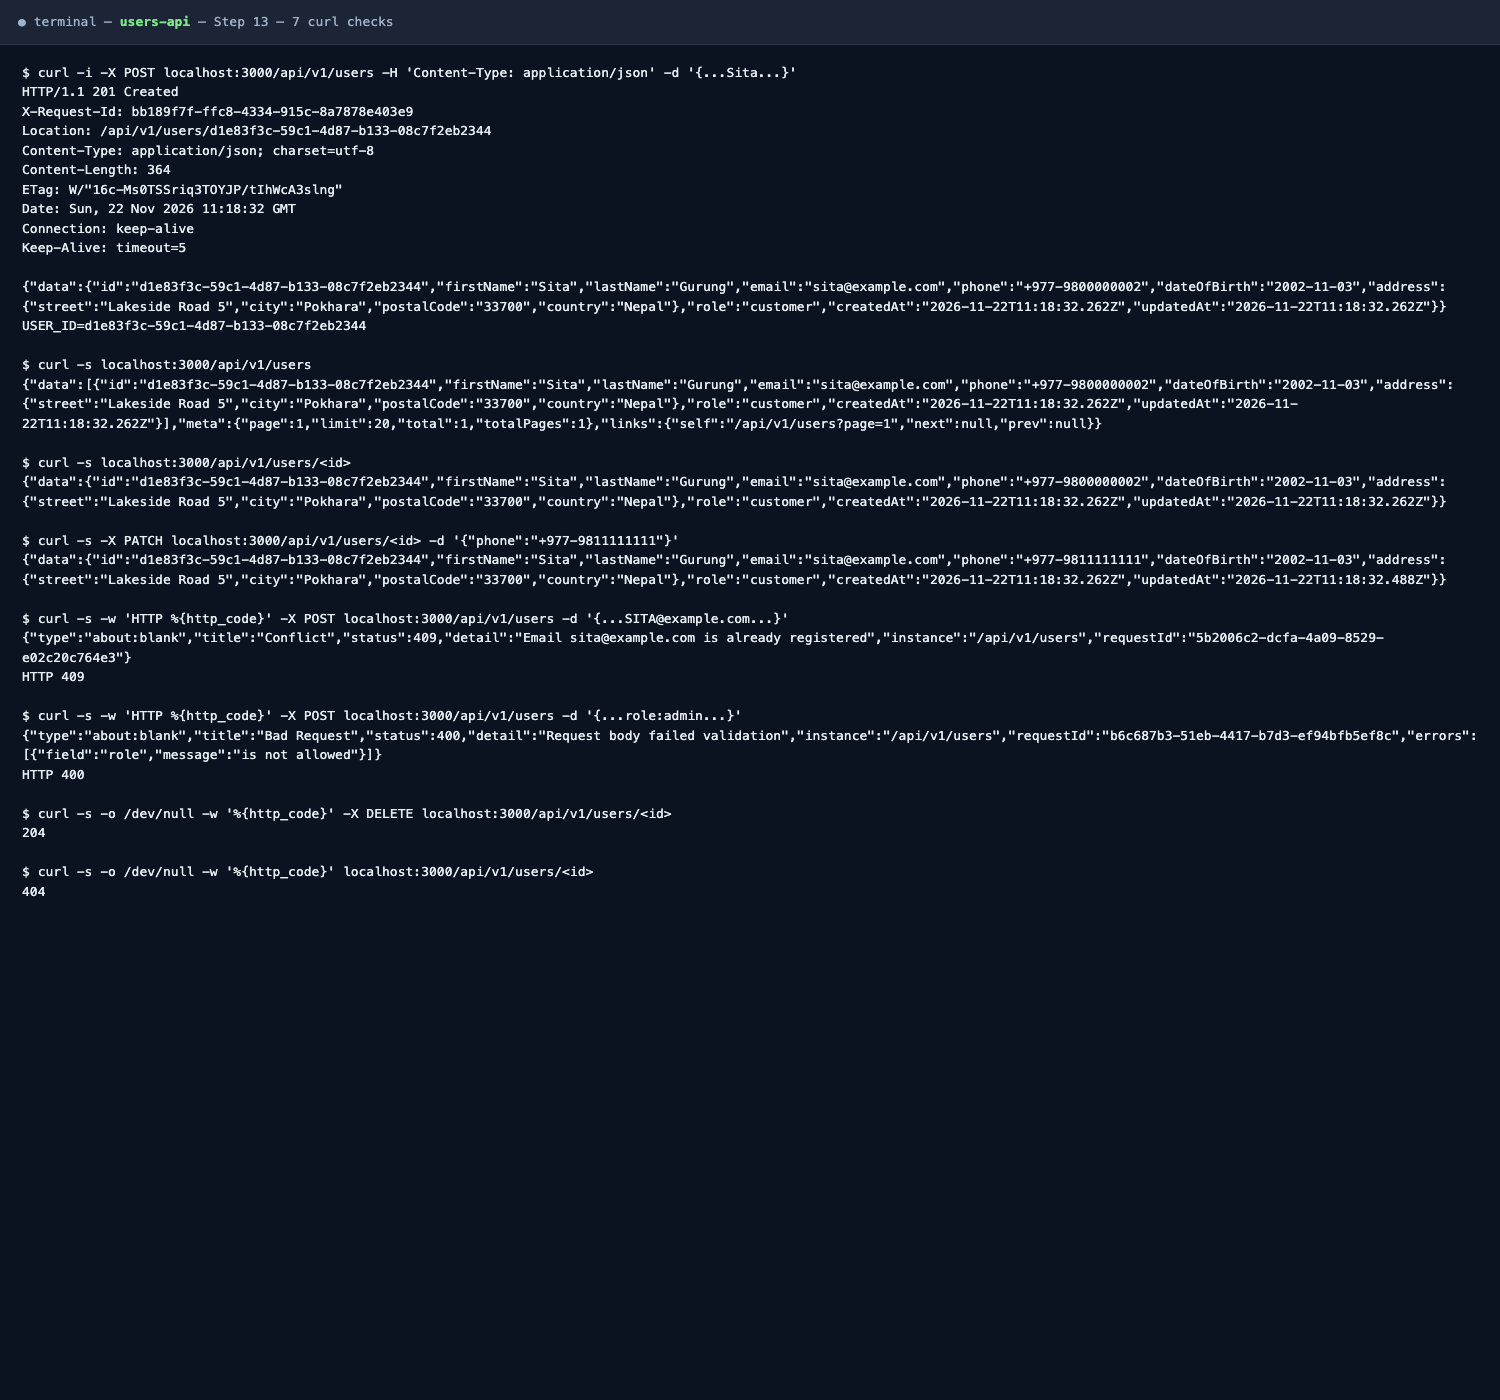
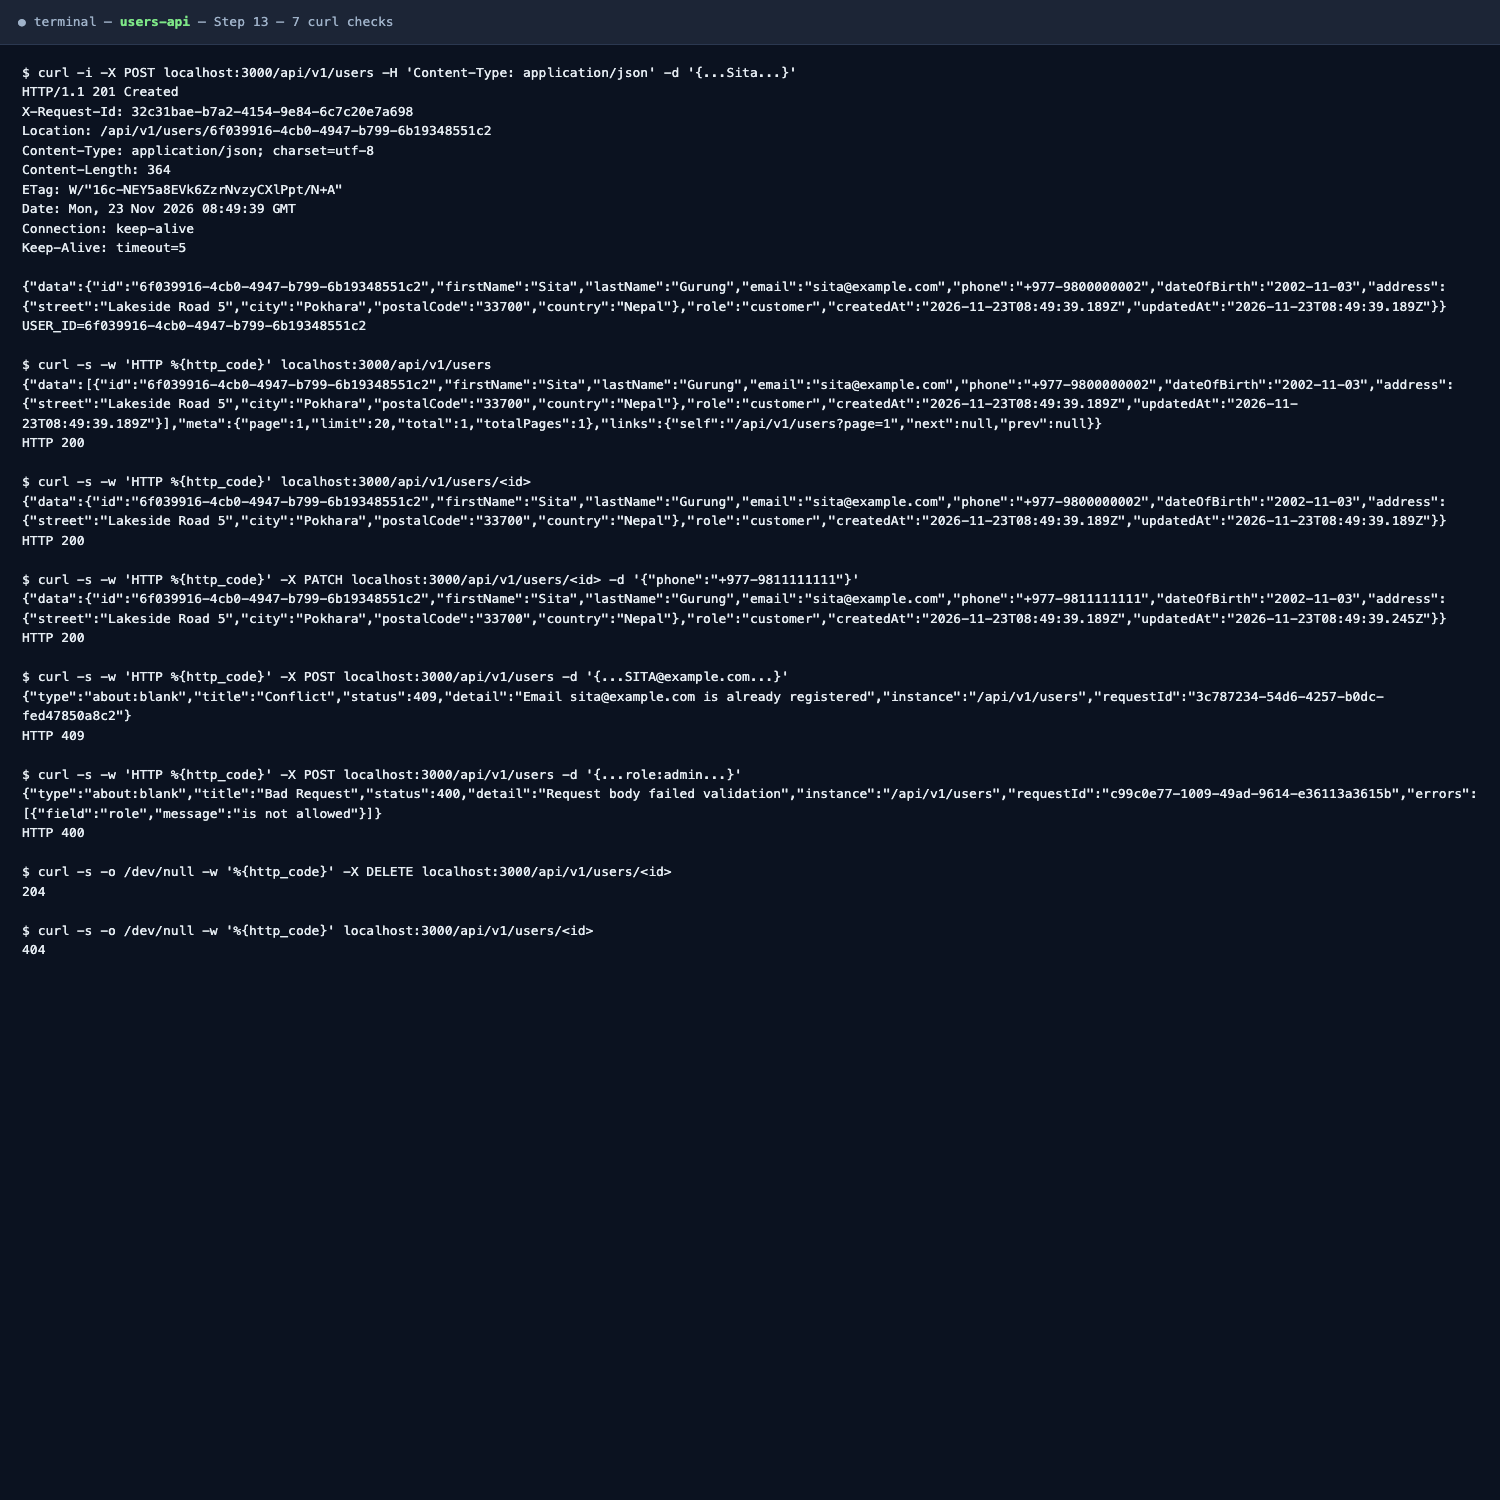
docs: show status codes for all 7 curl checks

diff --git a/evidence/curl-checks.html b/evidence/curl-checks.html
@@ -10,33 +10,36 @@
 <pre>
 $ curl -i -X POST localhost:3000/api/v1/users -H 'Content-Type: application/json' -d '{...Sita...}'
 HTTP/1.1 201 Created
-X-Request-Id: bb189f7f-ffc8-4334-915c-8a7878e403e9
-Location: /api/v1/users/d1e83f3c-59c1-4d87-b133-08c7f2eb2344
+X-Request-Id: 32c31bae-b7a2-4154-9e84-6c7c20e7a698
+Location: /api/v1/users/6f039916-4cb0-4947-b799-6b19348551c2
 Content-Type: application/json; charset=utf-8
 Content-Length: 364
-ETag: W/"16c-Ms0TSSriq3TOYJP/tIhWcA3slng"
-Date: Sun, 22 Nov 2026 11:18:32 GMT
+ETag: W/"16c-NEY5a8EVk6ZzrNvzyCXlPpt/N+A"
+Date: Mon, 23 Nov 2026 08:49:39 GMT
 Connection: keep-alive
 Keep-Alive: timeout=5
 
-{"data":{"id":"d1e83f3c-59c1-4d87-b133-08c7f2eb2344","firstName":"Sita","lastName":"Gurung","email":"sita@example.com","phone":"+977-9800000002","dateOfBirth":"2002-11-03","address":{"street":"Lakeside Road 5","city":"Pokhara","postalCode":"33700","country":"Nepal"},"role":"customer","createdAt":"2026-11-22T11:18:32.262Z","updatedAt":"2026-11-22T11:18:32.262Z"}}
-USER_ID=d1e83f3c-59c1-4d87-b133-08c7f2eb2344
+{"data":{"id":"6f039916-4cb0-4947-b799-6b19348551c2","firstName":"Sita","lastName":"Gurung","email":"sita@example.com","phone":"+977-9800000002","dateOfBirth":"2002-11-03","address":{"street":"Lakeside Road 5","city":"Pokhara","postalCode":"33700","country":"Nepal"},"role":"customer","createdAt":"2026-11-23T08:49:39.189Z","updatedAt":"2026-11-23T08:49:39.189Z"}}
+USER_ID=6f039916-4cb0-4947-b799-6b19348551c2
 
-$ curl -s localhost:3000/api/v1/users
-{"data":[{"id":"d1e83f3c-59c1-4d87-b133-08c7f2eb2344","firstName":"Sita","lastName":"Gurung","email":"sita@example.com","phone":"+977-9800000002","dateOfBirth":"2002-11-03","address":{"street":"Lakeside Road 5","city":"Pokhara","postalCode":"33700","country":"Nepal"},"role":"customer","createdAt":"2026-11-22T11:18:32.262Z","updatedAt":"2026-11-22T11:18:32.262Z"}],"meta":{"page":1,"limit":20,"total":1,"totalPages":1},"links":{"self":"/api/v1/users?page=1","next":null,"prev":null}}
+$ curl -s -w 'HTTP %{http_code}' localhost:3000/api/v1/users
+{"data":[{"id":"6f039916-4cb0-4947-b799-6b19348551c2","firstName":"Sita","lastName":"Gurung","email":"sita@example.com","phone":"+977-9800000002","dateOfBirth":"2002-11-03","address":{"street":"Lakeside Road 5","city":"Pokhara","postalCode":"33700","country":"Nepal"},"role":"customer","createdAt":"2026-11-23T08:49:39.189Z","updatedAt":"2026-11-23T08:49:39.189Z"}],"meta":{"page":1,"limit":20,"total":1,"totalPages":1},"links":{"self":"/api/v1/users?page=1","next":null,"prev":null}}
+HTTP 200
 
-$ curl -s localhost:3000/api/v1/users/&lt;id&gt;
-{"data":{"id":"d1e83f3c-59c1-4d87-b133-08c7f2eb2344","firstName":"Sita","lastName":"Gurung","email":"sita@example.com","phone":"+977-9800000002","dateOfBirth":"2002-11-03","address":{"street":"Lakeside Road 5","city":"Pokhara","postalCode":"33700","country":"Nepal"},"role":"customer","createdAt":"2026-11-22T11:18:32.262Z","updatedAt":"2026-11-22T11:18:32.262Z"}}
+$ curl -s -w 'HTTP %{http_code}' localhost:3000/api/v1/users/&lt;id&gt;
+{"data":{"id":"6f039916-4cb0-4947-b799-6b19348551c2","firstName":"Sita","lastName":"Gurung","email":"sita@example.com","phone":"+977-9800000002","dateOfBirth":"2002-11-03","address":{"street":"Lakeside Road 5","city":"Pokhara","postalCode":"33700","country":"Nepal"},"role":"customer","createdAt":"2026-11-23T08:49:39.189Z","updatedAt":"2026-11-23T08:49:39.189Z"}}
+HTTP 200
 
-$ curl -s -X PATCH localhost:3000/api/v1/users/&lt;id&gt; -d '{"phone":"+977-9811111111"}'
-{"data":{"id":"d1e83f3c-59c1-4d87-b133-08c7f2eb2344","firstName":"Sita","lastName":"Gurung","email":"sita@example.com","phone":"+977-9811111111","dateOfBirth":"2002-11-03","address":{"street":"Lakeside Road 5","city":"Pokhara","postalCode":"33700","country":"Nepal"},"role":"customer","createdAt":"2026-11-22T11:18:32.262Z","updatedAt":"2026-11-22T11:18:32.488Z"}}
+$ curl -s -w 'HTTP %{http_code}' -X PATCH localhost:3000/api/v1/users/&lt;id&gt; -d '{"phone":"+977-9811111111"}'
+{"data":{"id":"6f039916-4cb0-4947-b799-6b19348551c2","firstName":"Sita","lastName":"Gurung","email":"sita@example.com","phone":"+977-9811111111","dateOfBirth":"2002-11-03","address":{"street":"Lakeside Road 5","city":"Pokhara","postalCode":"33700","country":"Nepal"},"role":"customer","createdAt":"2026-11-23T08:49:39.189Z","updatedAt":"2026-11-23T08:49:39.245Z"}}
+HTTP 200
 
 $ curl -s -w 'HTTP %{http_code}' -X POST localhost:3000/api/v1/users -d '{...SITA@example.com...}'
-{"type":"about:blank","title":"Conflict","status":409,"detail":"Email sita@example.com is already registered","instance":"/api/v1/users","requestId":"5b2006c2-dcfa-4a09-8529-e02c20c764e3"}
+{"type":"about:blank","title":"Conflict","status":409,"detail":"Email sita@example.com is already registered","instance":"/api/v1/users","requestId":"3c787234-54d6-4257-b0dc-fed47850a8c2"}
 HTTP 409
 
 $ curl -s -w 'HTTP %{http_code}' -X POST localhost:3000/api/v1/users -d '{...role:admin...}'
-{"type":"about:blank","title":"Bad Request","status":400,"detail":"Request body failed validation","instance":"/api/v1/users","requestId":"b6c687b3-51eb-4417-b7d3-ef94bfb5ef8c","errors":[{"field":"role","message":"is not allowed"}]}
+{"type":"about:blank","title":"Bad Request","status":400,"detail":"Request body failed validation","instance":"/api/v1/users","requestId":"c99c0e77-1009-49ad-9614-e36113a3615b","errors":[{"field":"role","message":"is not allowed"}]}
 HTTP 400
 
 $ curl -s -o /dev/null -w '%{http_code}' -X DELETE localhost:3000/api/v1/users/&lt;id&gt;

diff --git a/evidence/server-log.html b/evidence/server-log.html
@@ -21,5 +21,6 @@ POST /api/v1/users 409 0.6ms 5b2006c2-dcfa-4a09-8529-e02c20c764e3
 POST /api/v1/users 400 0.4ms b6c687b3-51eb-4417-b7d3-ef94bfb5ef8c
 DELETE /api/v1/users/d1e83f3c-59c1-4d87-b133-08c7f2eb2344 204 0.2ms 3cf073e6-f99c-4010-9249-1952288257fa
 GET /api/v1/users/d1e83f3c-59c1-4d87-b133-08c7f2eb2344 404 0.5ms 97e50f80-696e-4625-b2f3-1039eeaac135
+SIGTERM received — shutting down
 </pre>
 </body></html>
